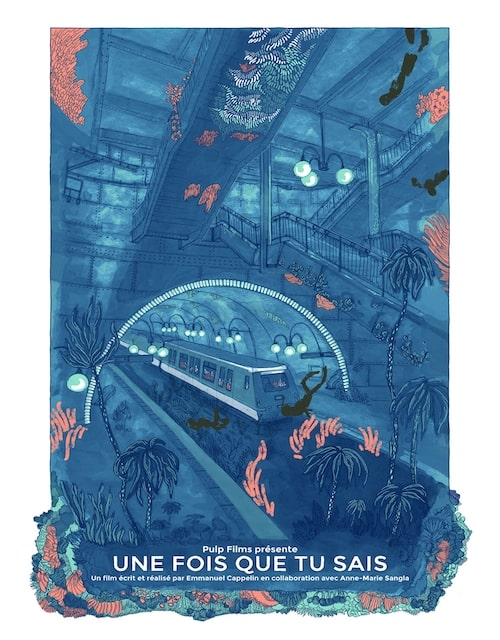
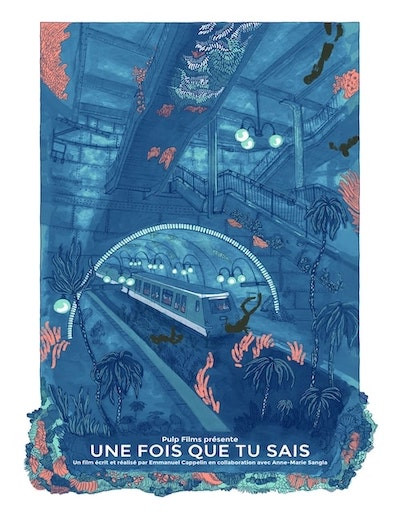
tâche(site): Ajout d'une affiche et taille réduite

diff --git a/src/routes/nous-soutenir.svelte b/src/routes/nous-soutenir.svelte
@@ -83,6 +83,7 @@
 			<li><img src="/affiches/affiche-3.jpg" alt="" /></li>
 			<li><img src="/affiches/affiche-4.jpg" alt="" /></li>
 			<li><img src="/affiches/affiche-5.jpg" alt="" /></li>
+			<li><img src="/affiches/affiche-6.jpg" alt="" /></li>
 		</ul>
 
 		<h3 class="text-center">Faire un don</h3>
@@ -147,7 +148,7 @@
 	}
 
 	ul {
-		@include utilities.responsive-grid(repeat(3, 1fr), repeat(5, 1fr), repeat(5, 1fr), 1);
+		@include utilities.responsive-grid(repeat(3, 1fr), repeat(4, 1fr), repeat(6, 1fr), 1);
 
 		list-style: none;
 		margin: 6rem 0;
